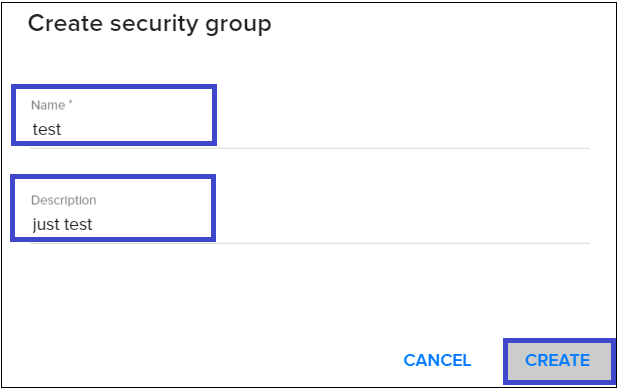
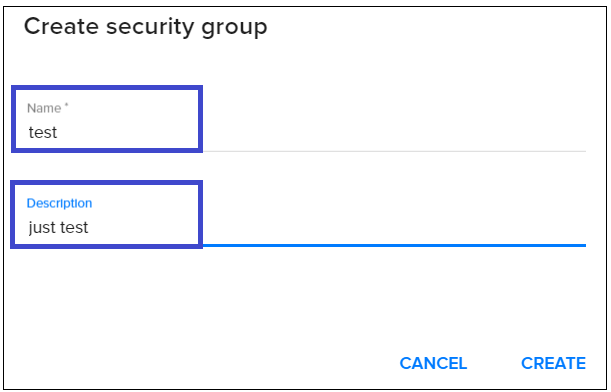
add coretask - Security Groups3

Changed region(s): [[0.0, 0.0, 1.0, 1.0], [0.653, 0.8923, 0.7774, 0.9538]]

diff --git a/_docs/coretasks/security-groups.md b/_docs/coretasks/security-groups.md
@@ -36,7 +36,7 @@ For creating new Security Group do the following:
 ![](../../assets/img/security-groups/security_groups_4.png)
 ![](../../assets/img/security-groups/security_groups_5.png)    
 
-2) On the following page fill up the `group name`, `description` and click `Create`:  
+2) On the following page fill up the `group name` and `description`:  
 ![](../../assets/img/security-groups/security_groups_6.png)   
 
 3) Hit `Create` and the new Security Group will be created:  
